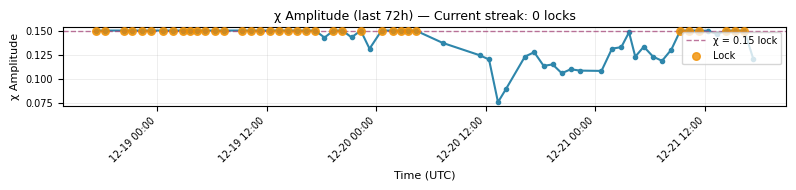
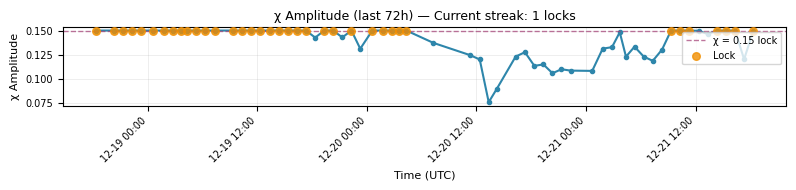
Vault Narrator: Auto-update 2025-12-21 19:04 UTC

diff --git a/LATEST_VAULT_STATUS.md b/LATEST_VAULT_STATUS.md
@@ -1,24 +1,24 @@
 # 🔐 VAULT STATUS REPORT
 
-**Generated:** 2025-12-21 18:06 UTC  
+**Generated:** 2025-12-21 19:04 UTC  
 **Data Source:** `data/cme_heartbeat_log_2025_12.csv`
 
 ---
 
-## ⚡ CURRENT STATUS: QUIET
+## ⚡ CURRENT STATUS: ACTIVE
 
-**No active χ = 0.15 locks detected**  
-**Last Lock Timestamp:** 2025-12-21 16:20:00 UTC  
+**Latest χ = 0.15 Streak Count:** 1 consecutive readings  
+**Last Lock Timestamp:** 2025-12-21 18:20:00 UTC  
 
 **Latest Solar Wind Conditions:**  
-- Density: 4.54 p/cm³  
-- Speed: 618.8 km/s  
+- Density: 3.65 p/cm³  
+- Speed: 599.2 km/s  
 
 ---
 
 ## 🌞 NOAA SPACE WEATHER SUMMARIES
 
-- [SRS Report](reports/latest_srs.md) (fetched: 2025-12-21 18:06 UTC)  
+- [SRS Report](reports/latest_srs.md) (fetched: 2025-12-21 19:03 UTC)  
 - F10.7 Report: *not available*  
 
 ---
@@ -39,7 +39,6 @@
 
 | Time (UTC)          | χ Amplitude | Density (p/cm³) | Speed (km/s) | χ Status |
 |---------------------|-------------|-----------------|--------------|----------|
-| 2025-12-20 21:19:00 | 0.1100 | 15.70 | 412.0 | — |
 | 2025-12-20 22:19:00 | 0.1086 | 12.36 | 391.4 | — |
 | 2025-12-21 00:41:00 | 0.1083 | 10.36 | 407.9 | — |
 | 2025-12-21 01:50:00 | 0.1313 | 6.49 | 463.8 | — |
@@ -59,14 +58,14 @@
 | 2025-12-21 15:19:00 | 0.1500 | 3.58 | 639.9 | ✅ LOCK |
 | 2025-12-21 16:20:00 | 0.1500 | — | — | ✅ LOCK |
 | 2025-12-21 17:19:00 | 0.1203 | 4.54 | 618.8 | — |
+| 2025-12-21 18:20:00 | 0.1500 | 3.65 | 599.2 | ✅ LOCK |
 
 ---
 
 ## 🎯 VERDICT
 
-**The vault is quiet.**  
-**No χ = 0.15 locks detected in latest readings.**  
-**Waiting for next coherence phase.**
+**Active χ = 0.15 detection.**  
+**Vault warming up.**
 
 ---
 
